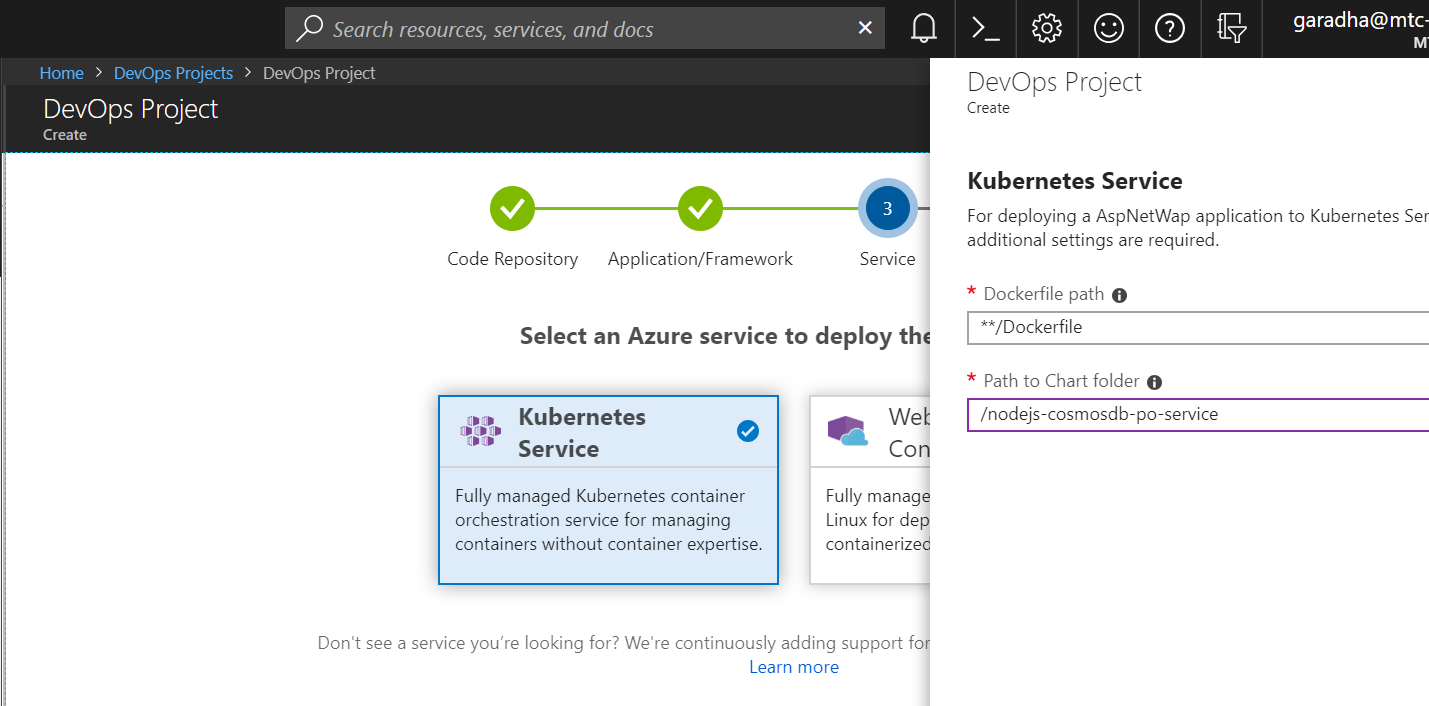
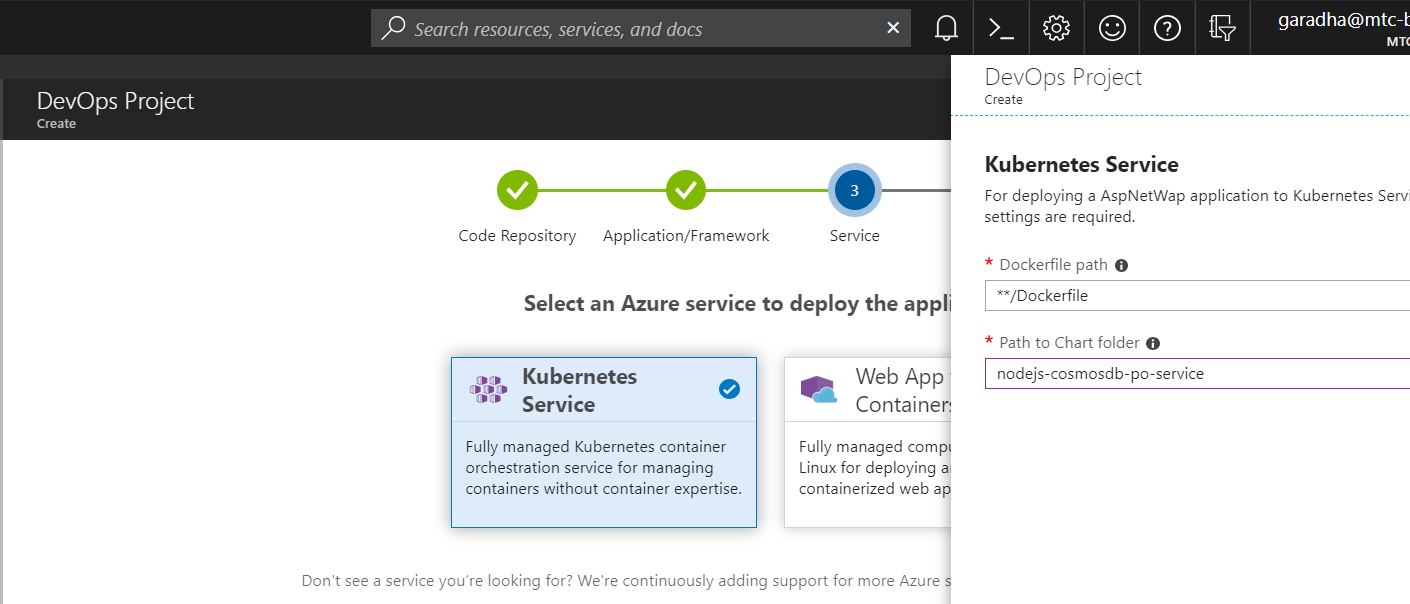
Updated Readme doc and imgage file

Changed region(s): [[0.0, 0.0, 1.0, 1.0]]

diff --git a/README.md b/README.md
@@ -79,7 +79,7 @@ On the *Application/Framework* page, select *Kubernetes Service* as shown below.
 
 ![alt tag](./images/B-01.PNG)
 
-Leave the value of *Dockerfile path* as is and specify value **/nodejs-cosmosdb-po-service** for *Path to Chart folder*. Then click **Ok** and **Next**.
+Leave the value of *Dockerfile path* as is and specify value **nodejs-cosmosdb-po-service** for *Path to Chart folder*. Then click **Ok** and **Next**.
 
 ![alt tag](./images/B-02.PNG)
 
